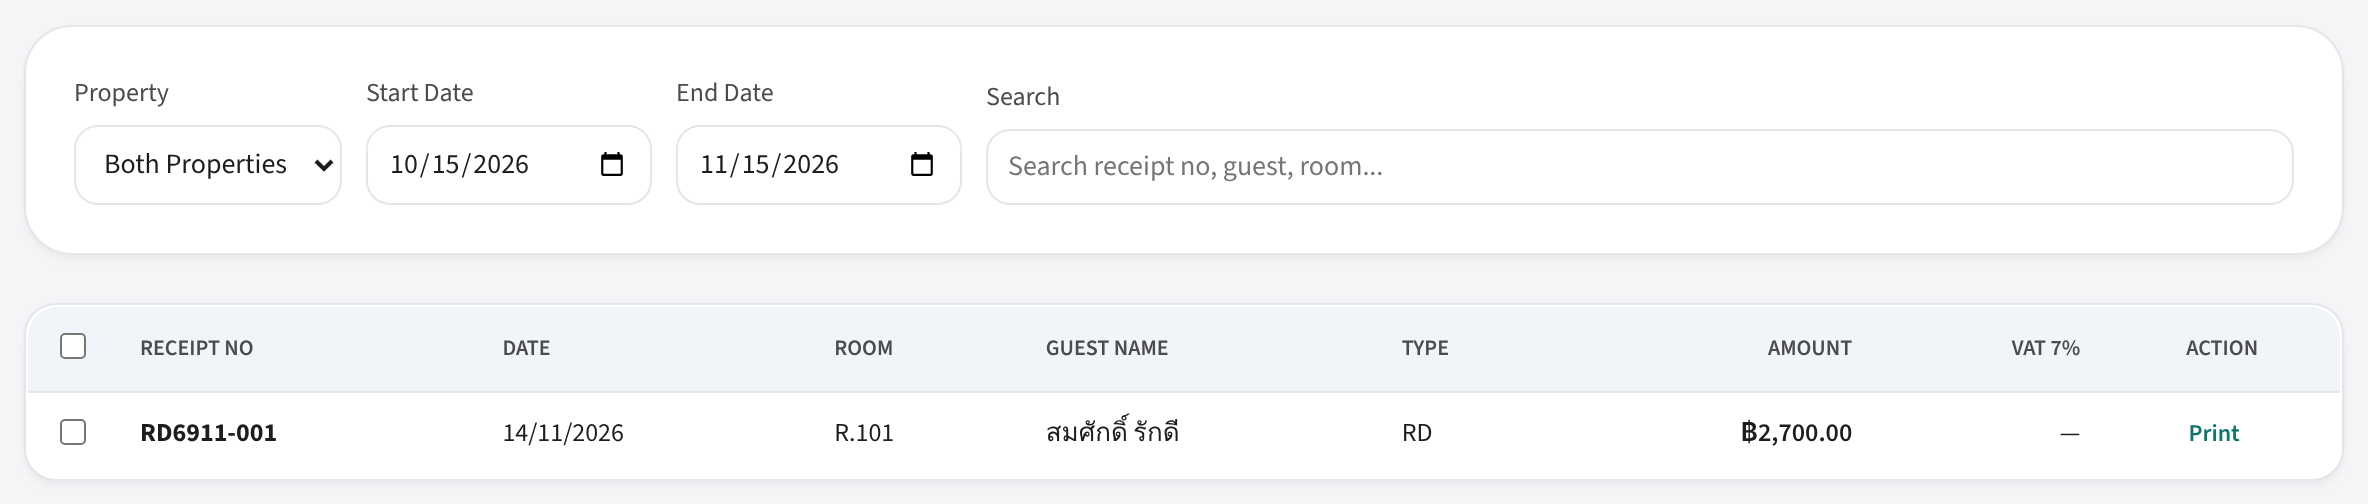
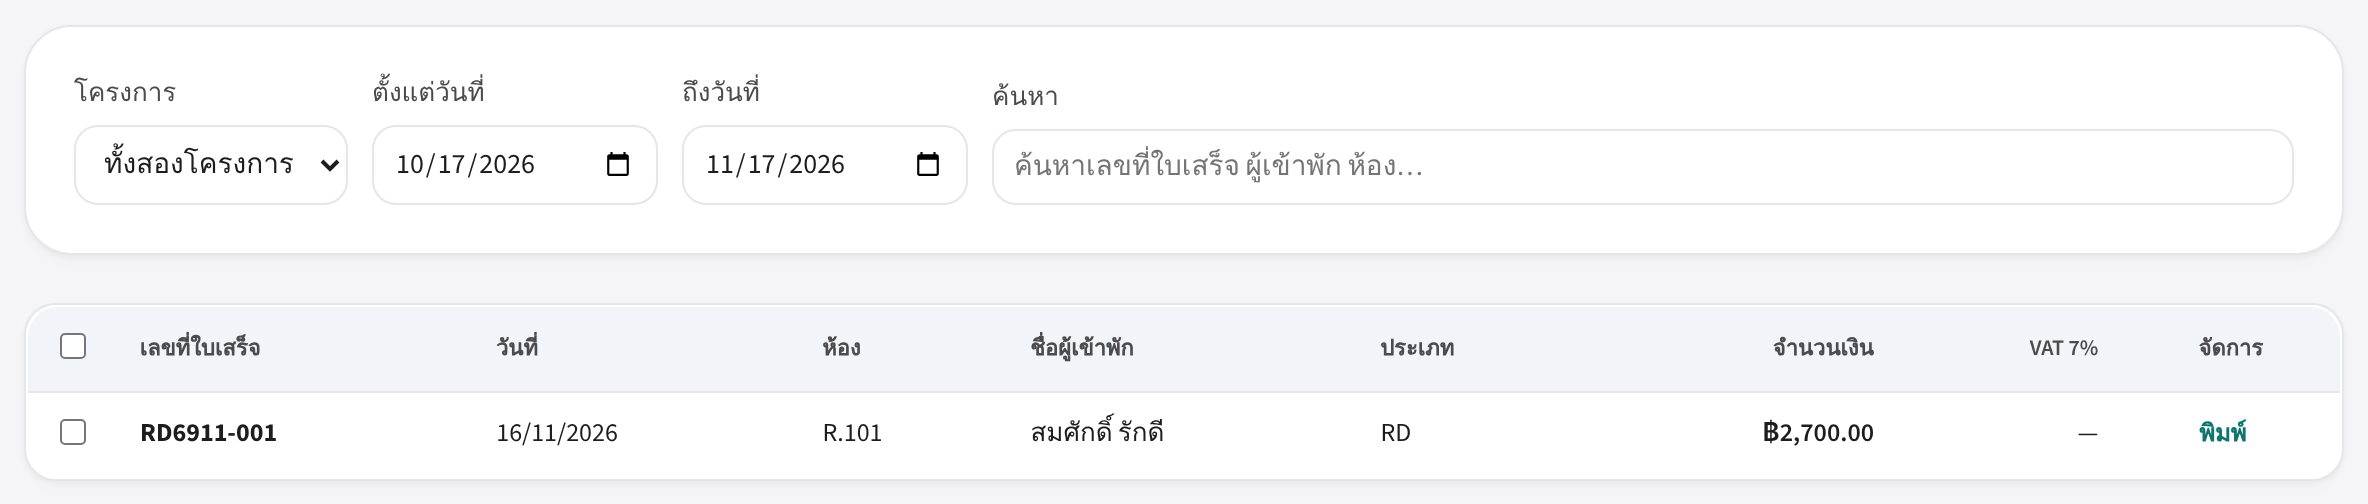
Deploy from CI: b0bf9f9

diff --git a/manual_frontdesk_th.html b/manual_frontdesk_th.html
@@ -258,14 +258,13 @@ h1{font-size:clamp(28px,5vw,40px);font-weight:800;letter-spacing:-.5px;margin-bo
   <section class="section" id="s11">
     <div class="section-head"><div class="snum">11</div><h2>พิมพ์ใบเสร็จซ้ำ<span class="en">Reprint a receipt</span></h2></div>
     <p class="intro">พนักงานต้อนรับ<b>ออกใบเสร็จใหม่ไม่ได้</b> (ฝ่ายบัญชีหรือเจ้าของเป็นผู้ออก) แต่พิมพ์ใบที่ออกแล้วซ้ำได้
-    ไปที่เมนู <b>รายงาน</b> แล้วเลือกแท็บ <b>Receipt Report</b></p>
+    ไปที่เมนู <b>รายงาน</b> แล้วเลือกแท็บ <b>รายงานใบเสร็จ</b></p>
     <figure class="fig"><img src="manual_assets/frontdesk/12_receipts.png" alt="รายงานใบเสร็จ" loading="lazy"></figure>
     <ol class="steps">
-      <li>เลือกโครงการและช่วงวันที่ หรือพิมพ์เลขใบเสร็จ ชื่อแขก หรือเลขห้องในช่อง <b>Search</b></li>
-      <li>กด <b>Print</b> ท้ายแถว ใบเสร็จจะเปิดในแท็บใหม่ แล้วสั่งพิมพ์จากเบราว์เซอร์</li>
-      <li>ต้องการพิมพ์หลายใบ: ติ๊กช่องหน้าแถว แล้วกด <b>Print Selected Receipts</b></li>
+      <li>เลือกโครงการและช่วงวันที่ หรือพิมพ์เลขใบเสร็จ ชื่อแขก หรือเลขห้องในช่อง <b>ค้นหา</b></li>
+      <li>กด <b>พิมพ์</b> ท้ายแถว ใบเสร็จจะเปิดในแท็บใหม่ แล้วสั่งพิมพ์จากเบราว์เซอร์</li>
+      <li>ต้องการพิมพ์หลายใบ: ติ๊กช่องหน้าแถว แล้วกด <b>พิมพ์ใบเสร็จที่เลือก</b></li>
     </ol>
-    <div class="note">หน้า <b>รายงาน</b> ยังแสดงเป็นภาษาอังกฤษ</div>
   </section>
 
   <div class="footer">The Precious Moment System · คู่มือพนักงานต้อนรับ (Front desk)</div>
